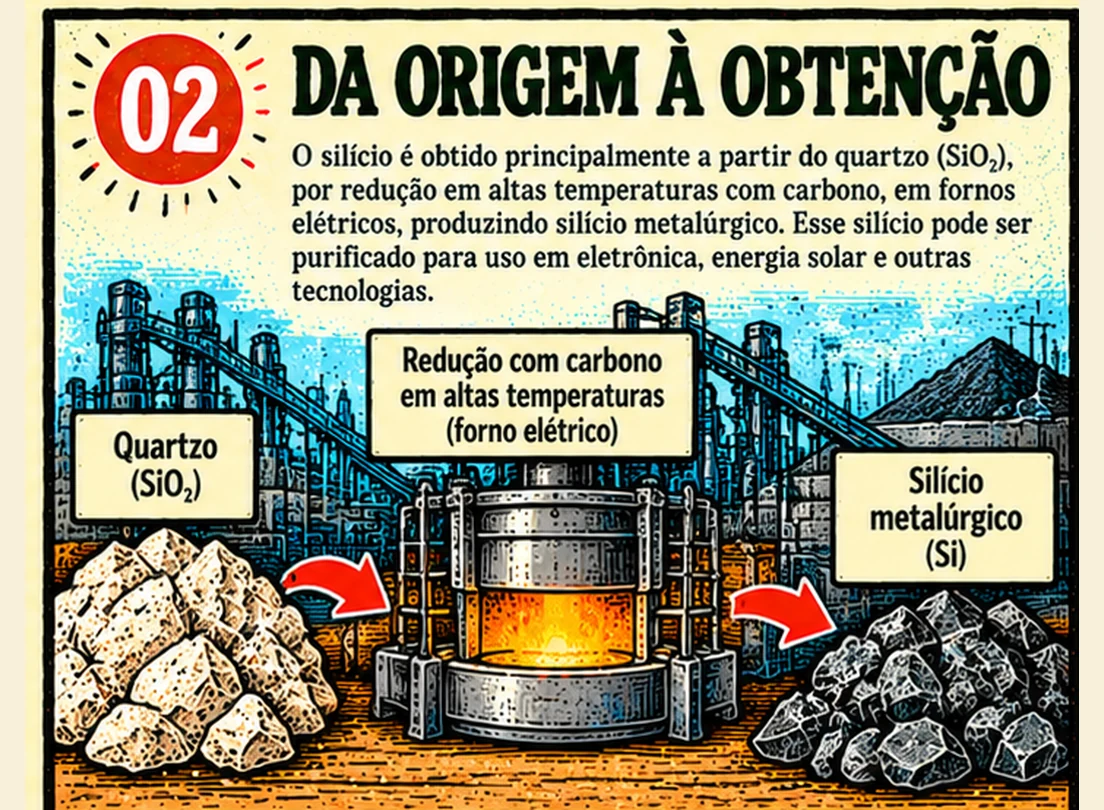
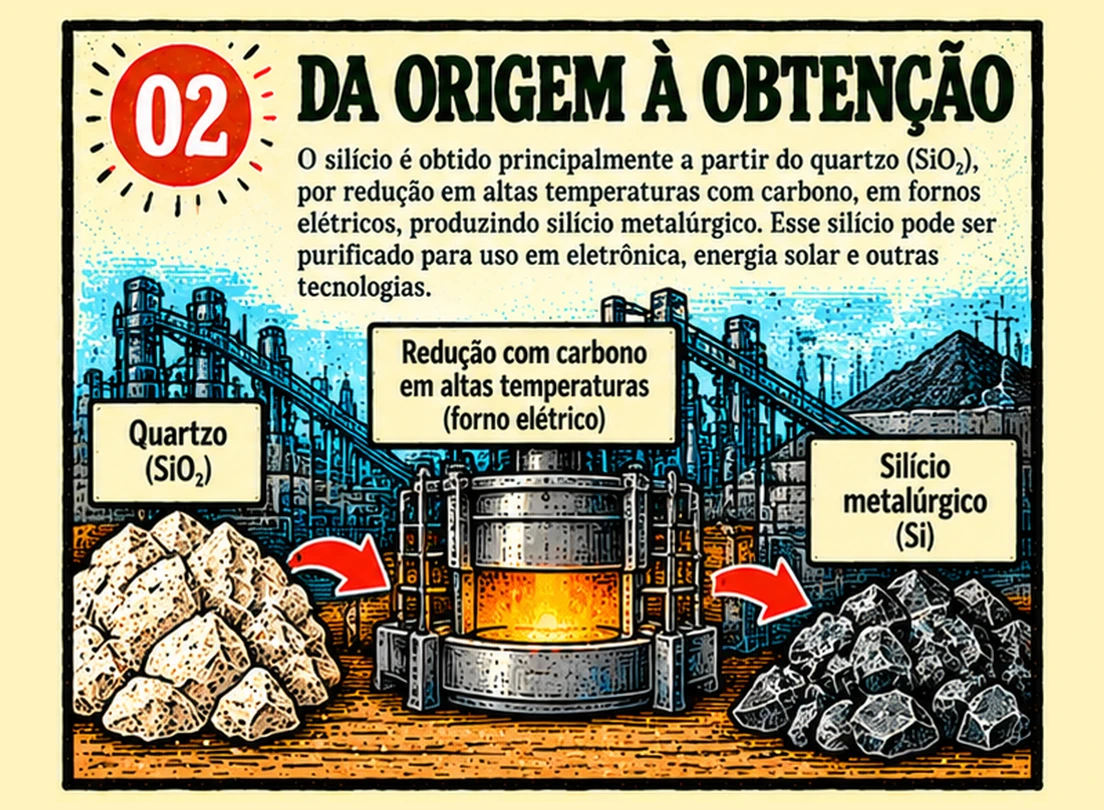
Corrigir recorte das molduras inferiores do Silício 014

diff --git a/assets/element-page.js b/assets/element-page.js
@@ -463,7 +463,7 @@
         figure.className='ep-print-approved-art';
         figure.alt='';
         figure.loading='eager';figure.decoding='sync';
-        figure.src='../../assets/folhetos/cenas/014-0'+(i+1)+'.webp?fit=si014-arte-aprovada-v1';
+        figure.src='../../assets/folhetos/cenas/014-0'+(i+1)+'.webp?fit=si014-moldura-completa-v2';
         figure.addEventListener('load',()=>{
           if(figure.naturalWidth>0){
             slot.replaceChildren(figure);

diff --git a/sw.js b/sw.js
@@ -1,4 +1,4 @@
-const CACHE='cordel-varal-v43-silicio-014-quadros-aprovados';
+const CACHE='cordel-varal-v44-silicio-014-molduras-completas';
 const ROOT=new URL('./',self.location.href).href;
 // Critical UI files must be revalidated online, not served indefinitely from
 // an older app-shell cache. Offline fallback keeps the PWA usable.
